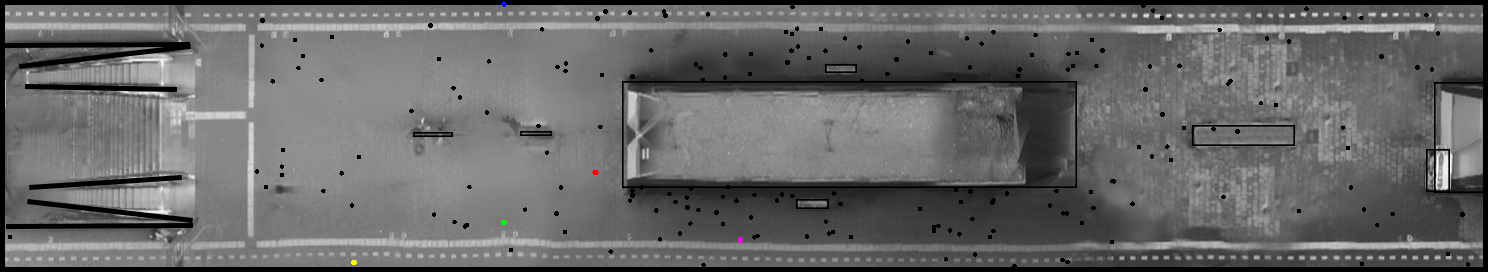
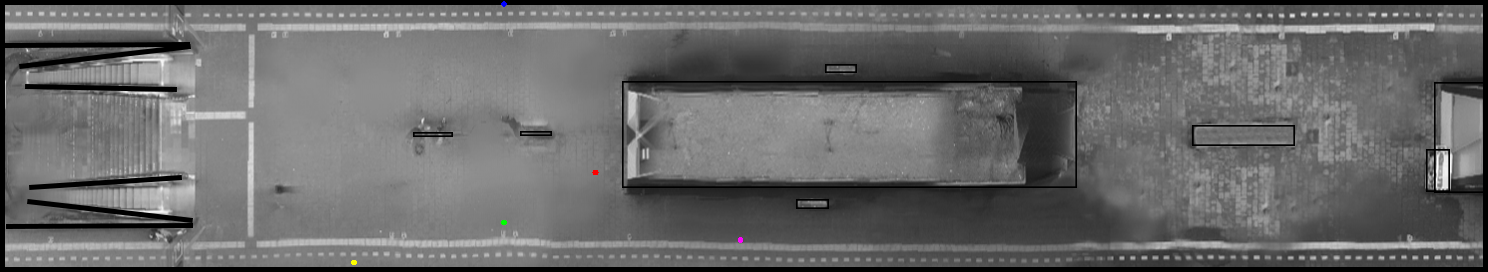
added safety

diff --git a/examples/micro/social/micro_social_modified.py b/examples/micro/social/micro_social_modified.py
@@ -270,6 +270,8 @@ plot_vd = input["plot_desired_velocities"]
 plot_pa = input["plot_paths"]
 plot_s = input["plot_sensors"]
 plot_pa = input["plot_paths"]
+radius_distribution = ["uniform",0.4,0.6]
+velocity_distribution = ["normal",1.2,0.1] # distribution varible
 print("===> Final time, Tf = ",Tf)
 print("===> Time step, dt = ",dt)
 print("===> To draw the results each drawper iterations, \
@@ -281,14 +283,6 @@ print("===> ONLY used during initialization ! Minimal distance between \
 print("===> ONLY used during initialization ! Minimal distance between a \
        person and a wall, dmin_walls = ",dmin_walls)
 
-
-## RETIRED ##
-## Needed for stationary ppl
-# dest_list = [] #list conatining the destinations of stationary people
-# xyrv_stationary = np.zeros((N_stationary, 4)) #xyrv of stationary people
-# for i in range(N_stationary):
-#     xyrv_stationary[i,2] = 0 #radius distrib
-#     xyrv_stationary[i,3] = 0 #velocity distrib
  
 ## Awareness stuff ##
 #The awareness values should be between 0 and 1
@@ -302,6 +296,9 @@ for i in range(awr.shape[0]): #Just in case you get unlucky
         awr[i] = 1
 #awr = np.ones(nn) #for testing 
   
+## Safety stuff
+
+
 """
     Build the Domain objects
 """
@@ -364,9 +361,7 @@ for i,jdom in enumerate(json_domains):
                 y_rnd = random.uniform(1,54)           
         circles = Circle((x_rnd, y_rnd), 0.35) #random location of dots
         dom.add_shape(circles, outline_color=[0,0,0],fill_color=[0,0,0])
-        ##this was for implementing stationary ppl
-        #xyrv_stationary[c, 0] = x_rnd
-        #xyrv_stationary[c, 1] = y_rnd
+
     ## To add ellipses : Ellipse( (center_x,center_y), width, height,
     ##                            angle_in_degrees_anti-clockwise )
     for se in jdom["shape_ellipses"]:
@@ -409,13 +404,7 @@ for i,jdom in enumerate(json_domains):
         #if (with_graphes):
         #    dom.plot_desired_velocity(dd["name"],id=100*i+10+j,step=20)
     
-    ##add destination of stationary people
-    # for ppl in range(10):
-    #     name_stationary = 'stationary '+ str(ppl)
-    #     dest_stationary = Destination(name = name_stationary, colors=[[ppl+100, 0, 0]])
-    #     dom.add_destination(dest_stationary)
-    #     dest_list.append(dest_stationary)
-    #     print("===> Destination : ",dest_stationary)
+
     print("===> Domain : ",dom)
     #if (with_graphes):
     #    dom.plot(id=100*i)
@@ -449,26 +438,28 @@ for s in json_sensors:
 t = 0.0
 counter = 0
 
+
+
+# plt.show()
+# group2 = [{"nb":5, "radius_distribution":radius_distribution, "velocity_distribution":velocity_distribution, \
+#     "box":[100,120,10,20], "destination":"dest1"}]
+# people2 = people_initialization(dom, group2,dt,dmin_people=dmin_people,dmin_walls=dmin_walls,seed=seed,\
+#         itermax=10,projection_method=projection_method, verbose=True)
+
+# #makes a new destination in the domain and changes the destination to the new one in the dict
+# for i in range(5):
+#     position = people2["xyrv"][i][0:2]
+#     circle = Circle(position, radius=1)
+#     dom.add_shape(circle,outline_color=[0,0,i+100],fill_color=[0,0,i+100])
+#     desti = Destination(name='stationary '+str(i), colors=[[0,0,i+100]])
+#     dom.add_destination(desti)
+#     people2["destinations"][i] = "stationary "+str(i)
+
 ## Initialize people
 all_people = {}
-## RETIRED (until it's fixed or forever unless we need stationary people to be ppl) ##
-## initialize stationary people 
-#stationary_ppl = []
-# for ppl in range(N_stationary):
-#     group_stationary = [{"nb":1, "radius_distribution": ["uniform",0.4,0.6], "velocity_distribution": ["normal",1.2,0.1], \
-#     "box": [15,15,20,40], "destination": 'stationary '+str(ppl)}]
-#     print(group_stationary)
-#     stationary_person = people_initialization(dom, group_stationary, dt, dmin_people=dmin_people, dmin_walls=dmin_walls, seed=seed,\
-#         itermax=10, projection_method=projection_method, verbose=True)
-#  #change the x and y to dest x and y 
-#     stationary_person["xyrv"][0] = xyrv_stationary[ppl, 0]
-#     stationary_person["xyrv"][1] = xyrv_stationary[ppl, 1]    
-#     stationary_ppl = stationary_ppl.append(stationary_person) 
-
 for i,peopledom in enumerate(json_people_init):
     dom = domains[peopledom["domain"]]
     groups = peopledom["groups"]
-    print(groups)
     print("===> Group number ",i,", domain = ",peopledom["domain"])
     people = people_initialization(dom, groups, dt,
         dmin_people=dmin_people, dmin_walls=dmin_walls, seed=seed,
@@ -479,22 +470,15 @@ for i,peopledom in enumerate(json_people_init):
     for ip,pid in enumerate(people["id"]):
         people["paths"][pid] = people["xyrv"][ip,:2]
     contacts = None
-    people_tot = people
     if (with_graphes):
-        colors = people_tot["xyrv"][:,2]
+        colors = people["xyrv"][:,2]
         plot_people(100*i+20, dom, people, contacts, colors, time=t,
                     plot_people=plot_p, plot_contacts=plot_c,
                     plot_velocities=plot_v, plot_desired_velocities=plot_vd,
                     plot_sensors=plot_s, sensors=all_sensors[dom.name],
-                    savefig=False, filename=prefix+dom.name+'_fig_'+ \
+                    savefig=True, filename=prefix+dom.name+'_fig_'+ \
                     str(counter).zfill(6)+'.png')
-        # plot_people(100*i+20, dom, stationary_ppl[i], contacts, colors, time=t,
-        #             plot_people=plot_p, plot_contacts=plot_c,
-        #             plot_velocities=plot_v, plot_desired_velocities=plot_vd,
-        #             plot_sensors=plot_s, sensors=all_sensors[dom.name],
-        #             savefig=False, filename=prefix+dom.name+'_fig_'+ \
-        #             str(counter).zfill(6)+'.png')
-    all_people[peopledom["domain"]] = people_tot
+    all_people[peopledom["domain"]] = people
 #print("===> All people = ",all_people)
 
 """
@@ -503,6 +487,7 @@ for i,peopledom in enumerate(json_people_init):
 
 cc = 0
 draw = True
+safety = np.zeros((nn,Tf))
 
 while (t<Tf):
 
@@ -554,12 +539,7 @@ while (t<Tf):
             contacts = compute_contacts(dom, xyrv, dmax)
             print("     Number of contacts: ",contacts.shape[0])
             Forces = compute_forces_dz(F, Fwall, xyrv, contacts, Uold, Vd,
-                                     lambda_, delta, kappa, eta, Fdz, dzy_down, dzy_up, awr)
-            # Forces = compute_forces(F, Fwall, xyrv, contacts, Uold, Vd,
-            #                          lambda_, delta, kappa, eta)
-            #Forces = compute_forces_dz_2(F, Fwall, xyrv, contacts, Uold, Vd,
-            #                         lambda_, delta, kappa, eta, Fdz, box_dz_down)
-            
+                    lambda_, delta, kappa, eta, Fdz, dzy_down, dzy_up, awr)
             nn = people["xyrv"].shape[0]
             all_people[name]["U"] = dt*(Vd[:nn,:]-Uold[:nn,:])/tau + \
                           Uold[:nn,:] + \
@@ -578,19 +558,28 @@ while (t<Tf):
             ## coloring people according to their radius
             colors =  all_people[name]["xyrv"][:,2]
             ## coloring people according to their destinations
-            colors = np.zeros(all_people[name]["xyrv"].shape[0])
-            for i,dest_name in enumerate(all_people[name]["destinations"]):
-                ind = np.where(all_people[name]["destinations"]==dest_name)[0]
-                colors[ind]=i
+            # colors = np.zeros(all_people[name]["xyrv"].shape[0])
+            # for i,dest_name in enumerate(all_people[name]["destinations"]):
+            #     ind = np.where(all_people[name]["destinations"]==dest_name)[0]
+            #     colors[ind]=i
             plot_people(100*idom+20, dom, all_people[name], contacts,
                         colors, virtual_people=virtual_people[name], time=t,
                         plot_people=plot_p, plot_contacts=plot_c,
                         plot_paths=plot_pa, plot_velocities=plot_v,
                         plot_desired_velocities=plot_vd, plot_sensors=plot_s,
-                        sensors=all_sensors[dom.name], savefig=False,
+                        sensors=all_sensors[dom.name], savefig=True,
                         filename=prefix+dom.name+'_fig_'
                         + str(counter).zfill(6)+'.png')
             plt.pause(0.01)
+
+    ## Safety stuff
+    for i in range(nn):
+        if people["xyrv"][i,1] >= dzy_up:
+            safety[i,t_int] = ((people["xyrv"][i,1]-dzy_up)/(53.9-dzy_up))**2
+        elif people["xyrv"][i,1] <= dzy_down:
+            safety[i,t_int] = ((-people["xyrv"][i,1]+dzy_down)/(dzy_down))**2
+        else:
+            safety[i,t_int] = 0
 
     ## Update people destinations
     all_people = people_update_destination(all_people,domains,dom.pixel_size)
@@ -616,7 +605,7 @@ while (t<Tf):
 
 for idom,domain_name in enumerate(all_sensors):
     print("===> Plot sensors of domain ",domain_name)
-    plot_sensors(100*idom+40, all_sensors[domain_name], t, savefig=False,
+    plot_sensors(100*idom+40, all_sensors[domain_name], t, savefig=True,
                 filename=prefix+'sensor_'+str(i)+'_'+str(counter)+'.png')
     plt.pause(0.01)
 

diff --git a/examples/micro/social/micro_social_modified_copy.py b/examples/micro/social/micro_social_modified_copy.py
@@ -257,7 +257,26 @@ print("===> ONLY used during initialization ! Minimal distance between \
        persons, dmin_people = ",dmin_people)
 print("===> ONLY used during initialization ! Minimal distance between a \
        person and a wall, dmin_walls = ",dmin_walls)
-nn=20
+
+nn = 20
+N_stationary = input["N_stationary"] #number of stationary people
+
+#DZ specific inputs
+Fdz = input["Fdz"] 
+dzy_up = input["dzy_up"] 
+dzy_down = input["dzy_down"]
+#box_dz_up = [[1.0,296.0, 51.0, 52.3]]
+box_dz_down = [[1.0,296.0, 1.0, 4.5]]
+
+## ZONES 
+## we can adjust the boxes how we like
+zone_1 = [[1.0, 50.2 , 1.0, 52.3 ]]
+zone_2 = [[50.21, 125.0, 1.0, 52.3]]
+zone_3 = [[125.01, 216.0 , 1.0, 52.3]]
+zone_4 =[[216.01 , 296.0, 1.0, 52.3]]
+
+## Awareness stuff ##
+#The awareness values should be between 0 and 1
 mean_awr = 0.5 # mean of awareness
 stdev_awr = 0.2 # stdev of awareness
 awr = np.random.normal(mean_awr, stdev_awr, nn) # awareness[i] is the awareness value of person i
@@ -266,6 +285,9 @@ for i in range(awr.shape[0]): #Just in case you get unlucky
         awr[i] = 0
     elif awr[i] > 1:
         awr[i] = 1
+#awr = np.ones(nn) #for testing 
+  
+## Safety stuff
 
 """
     Build the Domain objects
@@ -295,6 +317,41 @@ for i,jdom in enumerate(json_domains):
         circle = Circle( (sc["center_x"], sc["center_y"]), sc["radius"] )
         dom.add_shape(circle,outline_color=sc["outline_color"],
                       fill_color=sc["fill_color"])
+
+##To add the circles for the stationary people 
+    ##stationary people = obstacles; hence the color black 
+    ##(which is the wall color)
+    for c in range(N_stationary):
+        ## boundaries of kiosk: [124,215, 17.3,38.3]
+        ## boundaries of some other thingy at the end of the platform: [286,297, 16.5,38.1]  
+        ## y's of waiting places in zone_1: [(1,9),(46.5,54)]
+        dummy = random.choices([1,2,3,4], [1,5,20,10])
+        if dummy[0] == 1:
+            x_rnd = random.uniform(zone_1[0][0],zone_1[0][1]) 
+            y_rnd = random_from_intervals(((1,9), (46.5,54)))
+        elif dummy[0] == 2:
+            x_rnd = random.uniform(zone_2[0][0],zone_2[0][1]) 
+            y_rnd = random.uniform(zone_2[0][2],zone_2[0][3])
+        elif dummy[0] == 3:
+            x_rnd = random.uniform(zone_3[0][0],zone_3[0][1]) 
+            y_rnd = random_from_intervals(((1,17.3),(38.3,54)))
+            #move ppl closer to walls depending on the mean awareness
+            if y_rnd < 7:
+                chance = random.uniform(0,1)
+                if chance > mean_awr:
+                    y_rnd = y_rnd + 10 
+            elif y_rnd > 48.3:
+                chance = random.uniform(0,1)
+                if chance > mean_awr:
+                    y_rnd = y_rnd - 10      
+        else:    
+            x_rnd = random.uniform(zone_4[0][0],zone_4[0][1])
+            if (x_rnd>286.0 and x_rnd<297):
+                y_rnd = random_from_intervals(((1,17.3),(38.3,54)))
+            else:
+                y_rnd = random.uniform(1,54)           
+        circles = Circle((x_rnd, y_rnd), 0.35) #random location of dots
+        dom.add_shape(circles, outline_color=[0,0,0],fill_color=[0,0,0])                      
     ## To add ellipses : Ellipse( (center_x,center_y), width, height,
     ##                            angle_in_degrees_anti-clockwise )
     for se in jdom["shape_ellipses"]:
@@ -450,8 +507,8 @@ while (t<Tf):
 
             contacts = compute_contacts(dom, xyrv, dmax)
             print("     Number of contacts: ",contacts.shape[0])
-            Forces = compute_forces_dz( F, Fwall, xyrv, contacts, Uold, Vd,
-                                     lambda_, delta, kappa, eta,600,51.0,5.6,awr)
+            Forces = compute_forces_dz(F, Fwall, xyrv, contacts, Uold, Vd,
+                            lambda_, delta, kappa, eta, Fdz, dzy_down, dzy_up, awr)
             nn = people["xyrv"].shape[0]
             all_people[name]["U"] = dt*(Vd[:nn,:]-Uold[:nn,:])/tau + \
                           Uold[:nn,:] + \
@@ -508,7 +565,7 @@ while (t<Tf):
 
 for idom,domain_name in enumerate(all_sensors):
     print("===> Plot sensors of domain ",domain_name)
-    plot_sensors(100*idom+40, all_sensors[domain_name], t, savefig=True,
+    plot_sensors(100*idom+40, all_sensors[domain_name], t, savefig=False,
                 filename=prefix+'sensor_'+str(i)+'_'+str(counter)+'.png')
     plt.pause(0.01)
 
